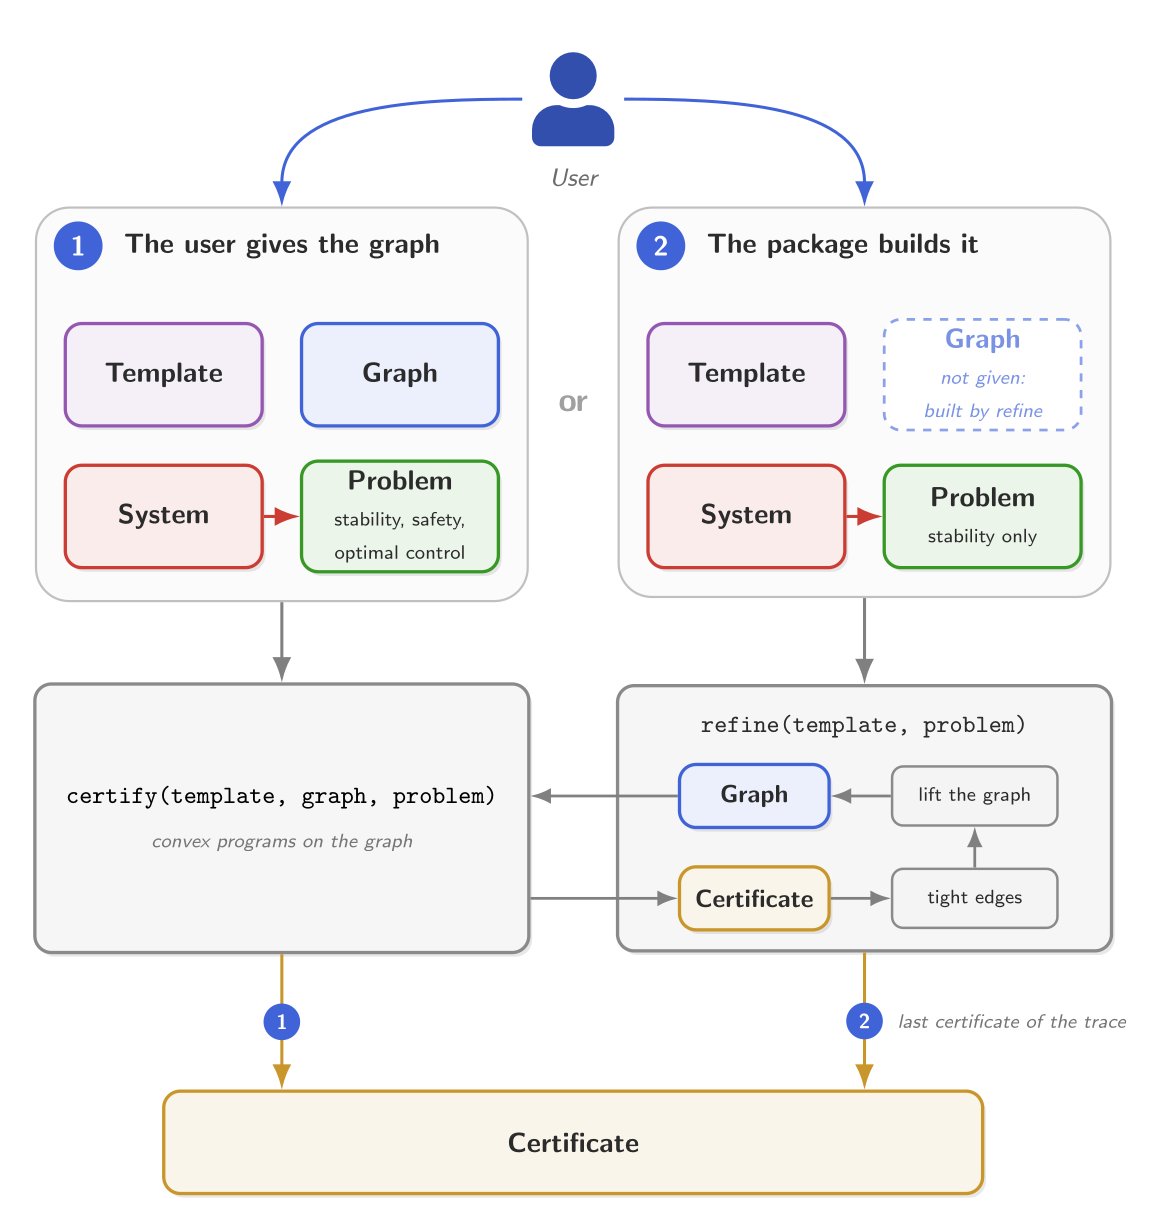
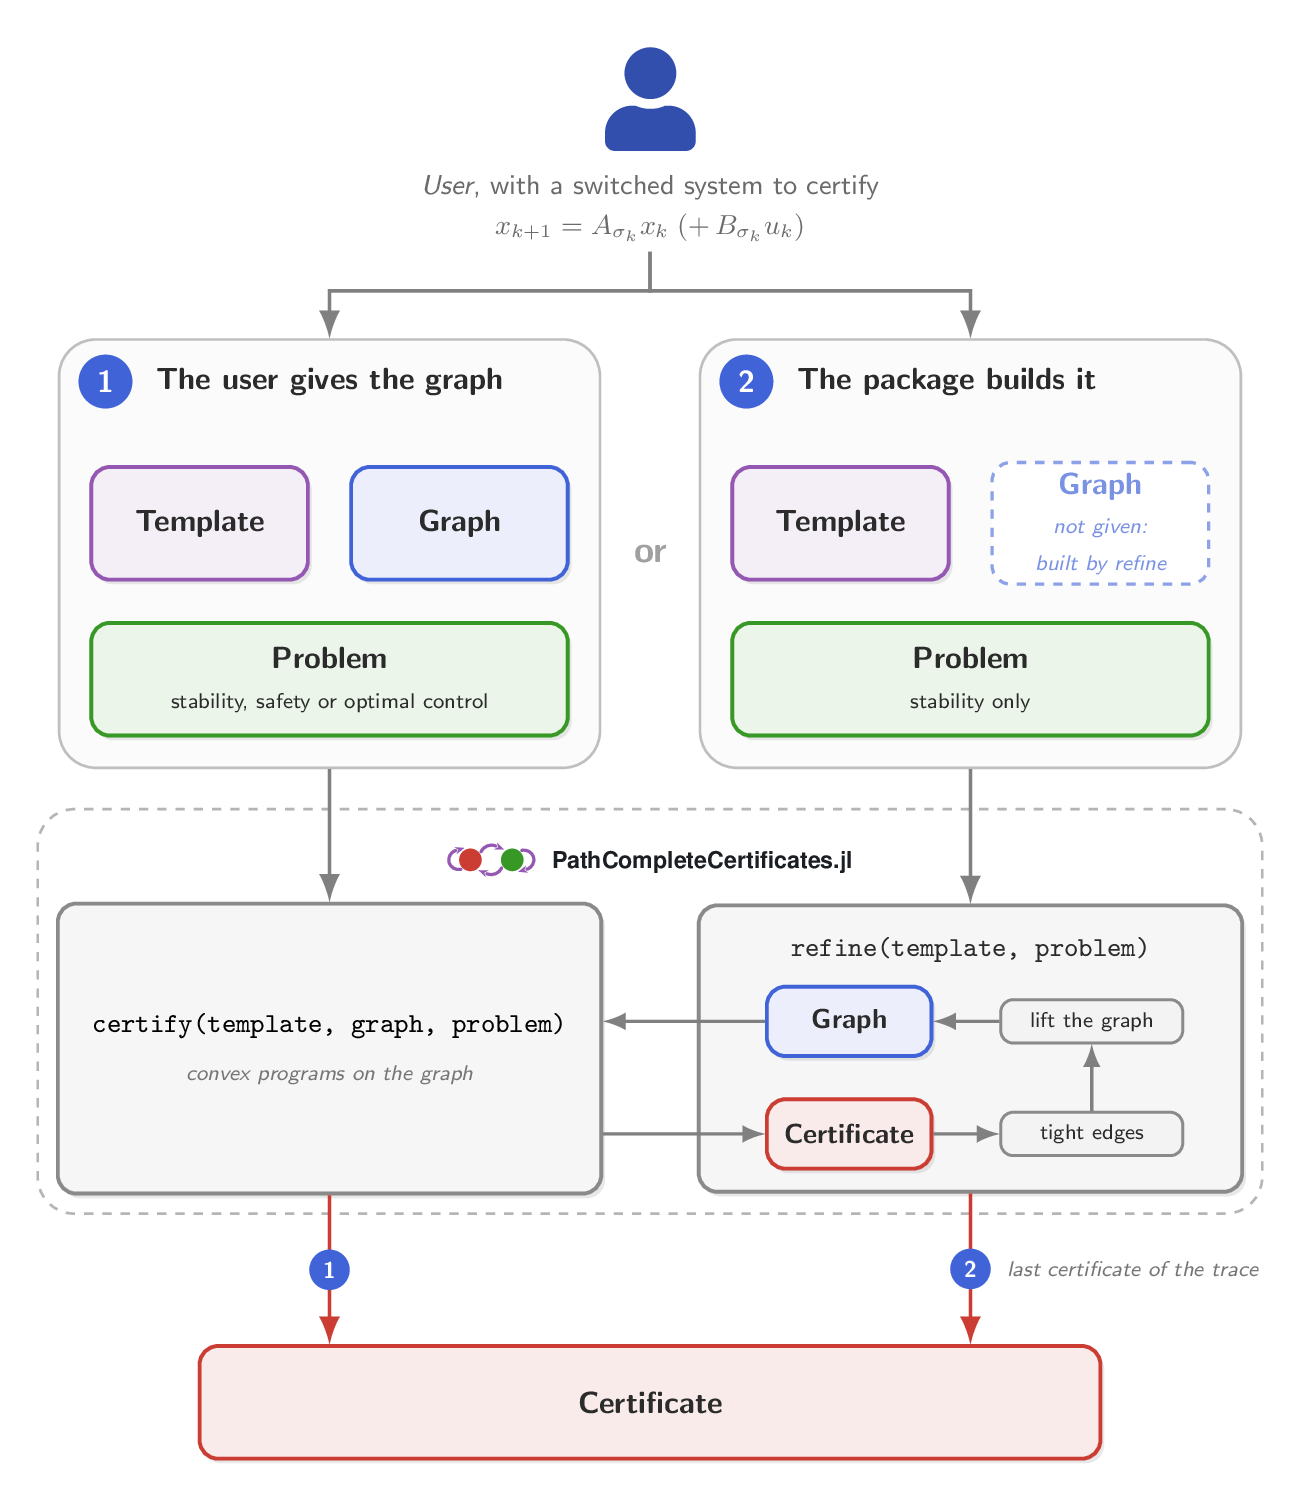
IMP docs: rework the home page and its figures

diff --git a/docs/src/assets/common_graph.tex b/docs/src/assets/common_graph.tex
@@ -1,0 +1,22 @@
+% The one-node graph of the home page, with a self-loop for each of the two
+% modes, in the mode colors of docs/graph_drawing.jl. Compile to SVG with
+%   latex common_graph.tex && dvisvgm --no-fonts --bbox=papersize common_graph.dvi
+\def\pgfsysdriver{pgfsys-dvisvgm.def}
+\documentclass[tikz, border = 3pt]{standalone}
+\usetikzlibrary{arrows.meta}
+\definecolor{mode1}{HTML}{4169E1} % royalblue
+\definecolor{mode2}{HTML}{FF8C00} % darkorange
+\renewcommand{\familydefault}{\sfdefault}
+\begin{document}
+\begin{tikzpicture}[
+    > = {Stealth[length = 1.6mm, width = 1.4mm]},
+    self loop/.style = {->, line width = 0.8pt},
+  ]
+  \node[circle, draw = black!55, fill = white, line width = 0.7pt,
+        minimum size = 6mm] (a) {};
+  \draw[self loop, mode1] (a.215) .. controls +(-12mm, -9mm) and +(-12mm, 9mm)
+    .. node[left] {\small 1} (a.145);
+  \draw[self loop, mode2] (a.35) .. controls +(12mm, 9mm) and +(12mm, -9mm)
+    .. node[right] {\small 2} (a.-35);
+\end{tikzpicture}
+\end{document}

diff --git a/docs/src/index.md b/docs/src/index.md
@@ -18,32 +18,41 @@ choose the graph, or let the package build it.
   system stable.
 - **Safety.** That no trajectory starting in an initial set reaches an unsafe
   set.
-- **Optimal control.** A state-feedback policy, and an upper bound on its cost
-  for every switching sequence.
+- **Optimal control.** A state-feedback policy, and an upper bound on its
+  worst-case cost over all switching sequences.
 
 ## Two ways to use it
 
 You give the graph, and [`certify`](@ref) computes a certificate on it, for
-any of the three problems. Or, for stability, you leave the graph out, and
-[`refine`](@ref) builds one: it solves, reads where the certificate is tight,
-lifts the graph there, and solves again.
+any of the three problems. Or, for stability, [`refine`](@ref) builds a
+graph adapted to the system, iteratively: it alternates between computing a
+certificate and improving the graph.
 
 ```@raw html
 <p style="text-align: center;">
   <img src="assets/architecture.png" style="width: 100%; max-width: 480px;"
-       alt="The two ways to use the package: the user gives the template, the graph, the system and the problem, and certify computes a certificate; or, for stability, the user leaves the graph out, and refine builds it, lifting the graph where the certificate is tight.">
+       alt="The two ways to use the package, for a user with a switched system to certify: the user gives the template, the graph and the problem, and certify computes a certificate; or, for stability, refine builds a graph adapted to the system, improving it step by step.">
 </p>
 ```
 
-## An example
+## A basic example
 
-The simplest case of the first way: a planar switched linear system with two
-modes, ``x_{k+1} = A_{\sigma(k)} x_k``; the quadratic template,
-``V(x) = x^\top P x``; and a graph with one node. Together they give a
-stability certificate, a common quadratic Lyapunov function, whose rate
+We certify the stability of a planar switched linear system with two modes,
+``x_{k+1} = A_{\sigma(k)} x_k`` with ``\sigma(k) \in \{1, 2\}``. We take the
+quadratic template, ``V(x) = x^\top P x``, and the simplest graph: one node,
+with a self-loop for each mode.
+
+```@raw html
+<p style="text-align: center;">
+  <img src="assets/common_graph.svg" style="width: 100%; max-width: 220px;"
+       alt="The one-node graph: a single node with a self-loop for mode 1 and a self-loop for mode 2.">
+</p>
+```
+
+Together they give a common quadratic Lyapunov function, whose rate
 ``\gamma`` is an upper bound on the joint spectral radius of the system:
 
-```@example
+```@example home
 import PathCompleteCertificates as PCC
 import Clarabel
 
@@ -53,7 +62,7 @@ system = PCC.switched_system([A1, A2])  # planar switched linear system, two mod
 
 certificate = PCC.certify(
     PCC.QuadraticTemplate(),         # V(x) = xᵀPx at each node
-    PCC.common_graph(system),        # one node, one loop per mode
+    PCC.common_graph(system),        # one node, a self-loop per mode
     PCC.StabilityProblem(system);    # V(Aᵢx) ≤ γ² V(x) along each edge
     optimizer = Clarabel.Optimizer,  # the solver of the semidefinite program
 )
@@ -62,30 +71,31 @@ certificate.rate
 
 The bound is below one, so the system is stable under arbitrary switching.
 
-[How a certificate works](@ref) explains the optimization problem that the
+[How a certificate works](@ref) explains the optimization program that the
 template, the graph and the problem build, and why its solution proves
-stability, safety or a bound on the cost, for every switching sequence.
+stability, safety or a bound on the worst-case cost over all switching
+sequences.
 
 ## How the documentation is structured
 
-New to the package? Read [Should you use PathCompleteCertificates.jl?](@ref)
-and [Installation](@ref), then Part I of the manual.
+If you are new to the package, start with
+[Should you use PathCompleteCertificates.jl?](@ref) and [Installation](@ref),
+then read Part I of the manual.
 
-- **Manual.** How to solve your problem with the package, in three parts, the
-  first two following the two ways above:
+- **Manual.** How to solve your problem with the package, in three parts:
   - **I. Certify your system with a graph you choose.** Define the system and
-    the problem, choose a template and a graph, call [`certify`](@ref), and
+    the problem, that is, the guarantee you want (stability, safety or
+    optimal control), choose a template and a graph, call [`certify`](@ref), and
     read the certificate. Start at [Systems and problems](@ref).
   - **II. Let the package improve the graph.** When you do not know which
     graph to choose, or want a better certificate,
-    [Refining the graph](@ref) improves it step by step, applying
-    [Lifts](@ref) where the certificate is tight; each lift gives a
-    certificate at least as good.
-  - **III. Going further.** Tools on the framework itself, beyond one system:
-    [Comparing graphs](@ref), to prove when possible that a graph gives a
-    certificate at least as good as another for every system, and
-    [Duality](@ref), which reverses the graph, transposes the system, and
-    turns a certificate into another just as good.
+    [Refining the graph](@ref) improves it step by step with
+    [Lifts](@ref), operations on the graph that each give a certificate at
+    least as good.
+  - **III. Going further.** [Comparing graphs](@ref) proves, when possible,
+    that a graph gives a certificate at least as good as another for every
+    system. [Duality](@ref) turns a certificate into another one, on the
+    reversed graph, for the transposed system.
 
   [What works with what](@ref) says which templates each problem accepts,
   which lifts are valid for each template, where refinement and comparison
@@ -99,21 +109,12 @@ and [Installation](@ref), then Part I of the manual.
 ## For researchers
 
 The package aims to implement the state of the art on path-complete
-certificates, and its documentation to survey the literature behind it:
-results spread across many papers, brought together in one implementation and
-one notation. The manual cites, where each result is used, the paper and the
-theorem it comes from, and the [Bibliography](@ref) says which paper each part
-of the package comes from.
-
-Since every template, graph and problem shares one interface, methods from
-different papers run on the same system with the same solver, and their
-conservativeness and solve time can be benchmarked side by side.
-
-To keep the implementation and the survey current, the package is built to
-receive new methods:
-[What works with what](@ref) shows the combinations not yet covered, and
-[Extending the package](@ref) how to add a template, a problem, a lift or a
-refinement algorithm.
+certificates. The manual cites, where each result is used, the paper and the
+theorem it comes from; the [Bibliography](@ref) says what the package takes from each
+paper. Every template, graph and problem shares one interface, so methods from
+different papers run on the same system with the same solver.
+[What works with what](@ref) lists the combinations not yet covered, and
+[Extending the package](@ref) explains how to add one.
 
 ## Getting help
 

diff --git a/README.md b/README.md
@@ -29,14 +29,15 @@ sequence of modes. You choose the graph, or let the package build it:
 
 <p align="center">
   <img src="docs/src/assets/architecture.png" width="480"
-       alt="The two ways to use the package: the user gives the template, the graph, the system and the problem, and certify computes a certificate; or, for stability, the user leaves the graph out, and refine builds it, lifting the graph where the certificate is tight.">
+       alt="The two ways to use the package, for a user with a switched system to certify: the user gives the template, the graph and the problem, and certify computes a certificate; or, for stability, refine builds a graph adapted to the system, improving it step by step.">
 </p>
 
-## Example
+## A basic example
 
-The simplest case of the first way: a planar switched linear system with two modes, the
-quadratic template, and a graph with one node. Together they give a common quadratic Lyapunov
-function, whose rate is an upper bound on the joint spectral radius:
+We certify the stability of a planar switched linear system with two modes. We take the
+quadratic template and the simplest graph: one node, with a self-loop for each mode. Together
+they give a common quadratic Lyapunov function, whose rate is an upper bound on the joint
+spectral radius:
 
 ```julia
 import PathCompleteCertificates as PCC

diff --git a/docs/src/installation.md b/docs/src/installation.md
@@ -70,7 +70,7 @@ Any other JuMP solver for these programs works, such as the commercial solver
 MOSEK; JuMP keeps the
 [list of solvers](https://jump.dev/JuMP.jl/stable/installation/#Supported-solvers).
 
-To check the installation, run [the example of the home page](@ref "An example").
+To check the installation, run [the example of the home page](@ref "A basic example").
 
 ## Optional packages
 
